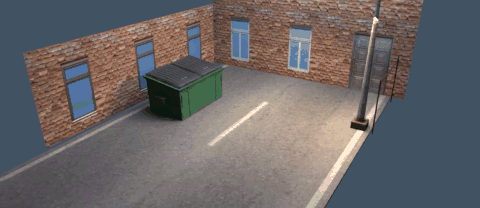
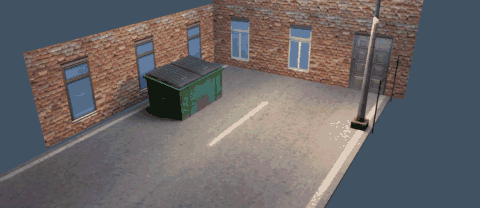
Publish identifiable alley build with compact Lupi palette and light actors

diff --git a/tools/prepare-background.py b/tools/prepare-background.py
@@ -6,7 +6,7 @@ base=[int(x) for x in (build/'source-palette.txt').read_text().split()]
 def rgb(c): return ((c&31)*255//31,((c>>5)&31)*255//31,((c>>10)&31)*255//31)
 def pack(c):return (int(c[2])>>3)*1024+(int(c[1])>>3)*32+(int(c[0])>>3)
 original=Image.open(build/'alley-rgba.png').convert('RGB')
-quant=original.quantize(colors=176,method=Image.Quantize.MEDIANCUT,dither=Image.Dither.NONE).convert('RGB')
+quant=original.quantize(colors=64,method=Image.Quantize.MEDIANCUT,dither=Image.Dither.NONE).convert('RGB')
 values=[max(1,pack(c)) for c in quant.getdata()];master=list(dict.fromkeys([0]+base+values));assert len(master)<=256
 pixels=[rgb(c) for c in values];quant.putdata(pixels);quant.save(dest/'alley.png')
 a=Image.open(build/'dumpster-rgba.png').getchannel('A');bbox=a.point(lambda x:255 if x>=128 else 0).getbbox();mask=Image.new('RGBA',quant.size);mask.putdata([(*c,255 if alpha>=128 else 0) for c,alpha in zip(pixels,a.getdata())]);mask.crop(bbox).save(dest/'dumpster.png')
@@ -23,5 +23,6 @@ text='return {camera={'+','.join(k+'='+repr(v) for k,v in cam.items())+'},mask={
 (root/'background_layout.lua').write_text(text)
 (build/'palette.json').write_text(json.dumps(master));(build/'layout-complete.json').write_text(json.dumps(layout|{'bbox':bbox,'palette_size':len(master)},indent=2))
 print('palette',len(master),'background bytes',len(values),'mask',bbox,'mask bytes',len(maskvals))
+
 
 
